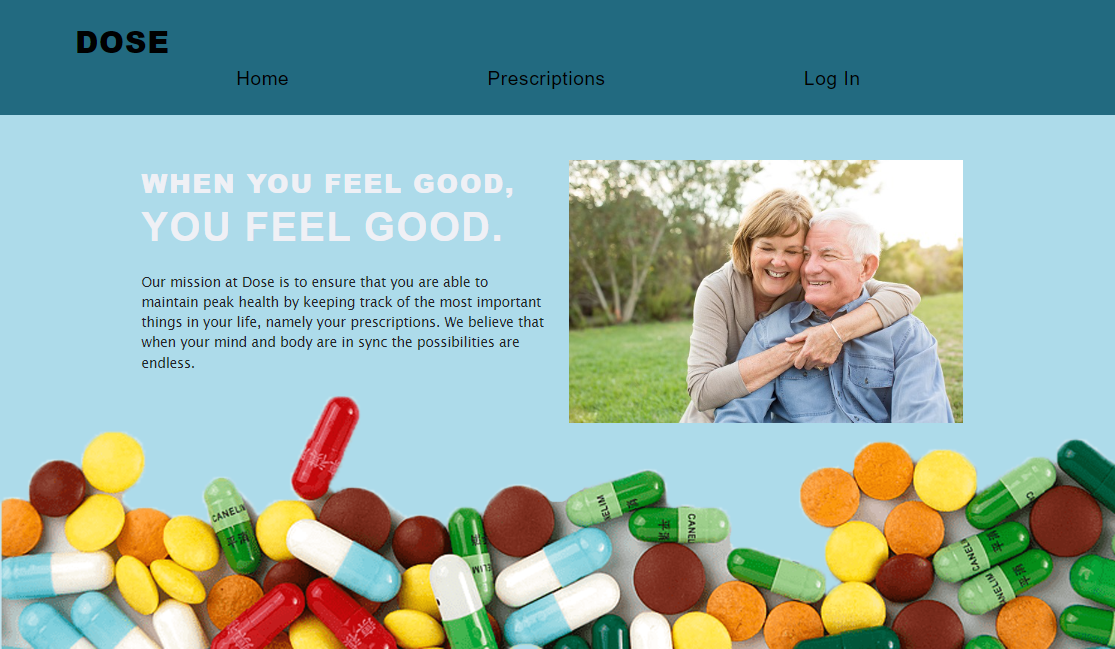
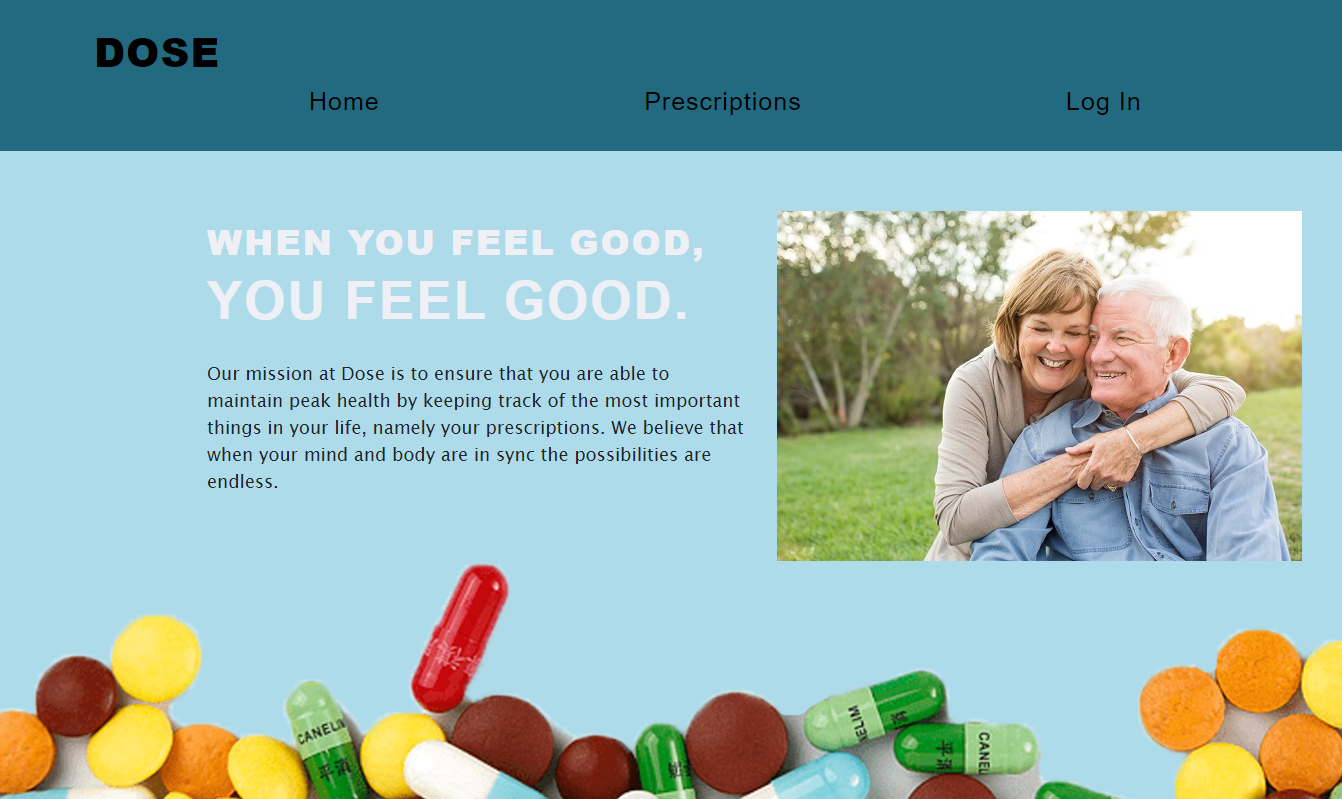
added name to header, nerdherd project, changed font weight

diff --git a/src/components/Portfolio.js b/src/components/Portfolio.js
@@ -2,8 +2,9 @@ import React from "react";
 import Carousel from "react-bootstrap/Carousel";
 import Projects from "./Projects";
 import dose from "../images/dose.png";
-import rIr from "../images/rhythminregion.png";
+import rIr from "../images/rIr.png";
 import genu from "../images/genu.png";
+import nerdherd from "../images/nerdherd.png";
 
 export default function Portfolio() {
   const projects = [
@@ -31,9 +32,32 @@ export default function Portfolio() {
       deploy: "https://cryptic-inlet-45736.herokuapp.com/",
       github: "https://github.com/kfisch2/dose",
     },
+    {
+      id: 3,
+      name: "nerdherd",
+      description: "FOURTH",
+      photo: nerdherd,
+      deploy: "https://nerd-herd06@herokuapp.com",
+      github: "https://github.com/kfisch2/nerd-herd",
+    },
   ];
 
   return (
+    // <div className="container">
+    //   <div className="row">
+    //     {projects.map((project, i) => {
+    //       return (
+    //         <>
+    //           <div className="col-md">
+    //             <Projects project={project} key={i} />
+    //           </div>
+    //           <div className="w-50"></div>
+    //         </>
+    //       );
+    //     })}
+    //   </div>
+    // </div>
+
     <Carousel>
       {projects.map((project, i) => {
         return (

diff --git a/src/components/Page.js b/src/components/Page.js
@@ -1,29 +1,24 @@
-import About from './About'
-import Portfolio from './Portfolio';
-import Contact from './Contact';
-import Resume from './Resume';
-import PageContent from './PageContent';
+import About from "./About";
+import Portfolio from "./Portfolio";
+import Contact from "./Contact";
+import Resume from "./Resume";
+import PageContent from "./PageContent";
 
 export default function Page({ currentPage }) {
-
   const renderPage = () => {
     switch (currentPage.name) {
-      case 'about':
+      case "about":
         return <About />;
-      case 'portfolio':
+      case "portfolio":
         return <Portfolio />;
-      case 'contact':
+      case "contact":
         return <Contact />;
-      case 'resume':
+      case "resume":
         return <Resume />;
       default:
         return <About />;
     }
   };
 
-  return (
-   
-      <PageContent>{renderPage()}</PageContent>
-
-  );
+  return <PageContent>{renderPage()}</PageContent>;
 }

diff --git a/src/index.css b/src/index.css
@@ -2,6 +2,10 @@ main {
   min-height: calc(100vh - 72px - 105px);
 }
 
+.header {
+  margin-bottom: 100px;
+}
+
 body {
   background-color: #000e22;
   color: aliceblue;
@@ -11,8 +15,14 @@ body {
 
 .my-name {
   text-align: left;
+  font-family: "Estonia", "cursive";
+  font-size: 50px;
 }
 
+.contact {
+  font-weight: lighter;
+
+}
 nav {
   font-size: x-large;
   padding-bottom: 10px;
@@ -28,8 +38,13 @@ nav {
   color: rgba(255, 255, 255, 1);
   background-color: #000e22;
   box-shadow: 0 5px 10px rgba(145, 92, 182, 0.4);
-  box-sizing: inherit;
   cursor: pointer;
+}
+
+.project-link {
+  margin-left: 15px;
+  margin-right: 15px;
+  font-size: 25px;
 }
 
 footer {
@@ -72,6 +87,9 @@ li {
   font-weight: lighter;
 }
 
+.carousel-item {
+  width: 100vw;
+}
 .carousel-item img {
   max-width: 45%;
   max-height: 45%;

diff --git a/src/components/Projects.js b/src/components/Projects.js
@@ -6,23 +6,22 @@ export default function Projects({ project }) {
   return (
     <>
       <img src={photo} className="d-block w-100" alt={name} />
-      <div className="carousel-caption d-none d-md-block">
+      <div className="carousel-caption d-md-block ">
         <a
           href={deploy}
           target="_blank"
           rel="noreferrer"
           style={{ textDecoration: "none", color: "white" }}
-          className="links"
+          className="links project-link"
         >
           Deployed
         </a>
-        <br></br>
         <a
           href={github}
           target="_blank"
           rel="noreferrer"
           style={{ textDecoration: "none", color: "white" }}
-          className="links"
+          className="links project-link"
         >
           Github
         </a>

diff --git a/public/index.html b/public/index.html
@@ -2,6 +2,13 @@
 <html lang="en">
   <head>
     <meta charset="utf-8" />
+    <!--Google font-->
+    <link rel="preconnect" href="https://fonts.googleapis.com" />
+    <link rel="preconnect" href="https://fonts.gstatic.com" crossorigin />
+    <link
+      href="https://fonts.googleapis.com/css2?family=Estonia&display=swap"
+      rel="stylesheet"
+    />
     <link
       href="https://cdn.jsdelivr.net/npm/bootstrap@5.2.1/dist/css/bootstrap.min.css"
       rel="stylesheet"

diff --git a/src/components/Header.js b/src/components/Header.js
@@ -14,8 +14,9 @@ function Header(props) {
   }, [currentPage]);
 
   return (    
-      <Container className="col flex-row">
-        <nav className=" row">
+      <Container className="col flex-row header">
+        <nav className="row">
+          <h1 className='my-name'>Kayla Fischer</h1>
           {page.map((Page) => (
             <li
               className={`mx-5 links col ${

diff --git a/src/components/Contact.js b/src/components/Contact.js
@@ -94,10 +94,10 @@ export default function ContactForm() {
     //     </button>
     //   </form>
     // </section>
-    <div>
+    <h2 className="contact">
       <br></br>
       Email me <a href="mailto:kmlindsey24@gmail.com">here!</a>
       <br></br>Contact form coming soon.
-    </div>
+    </h2>
   );
 }
